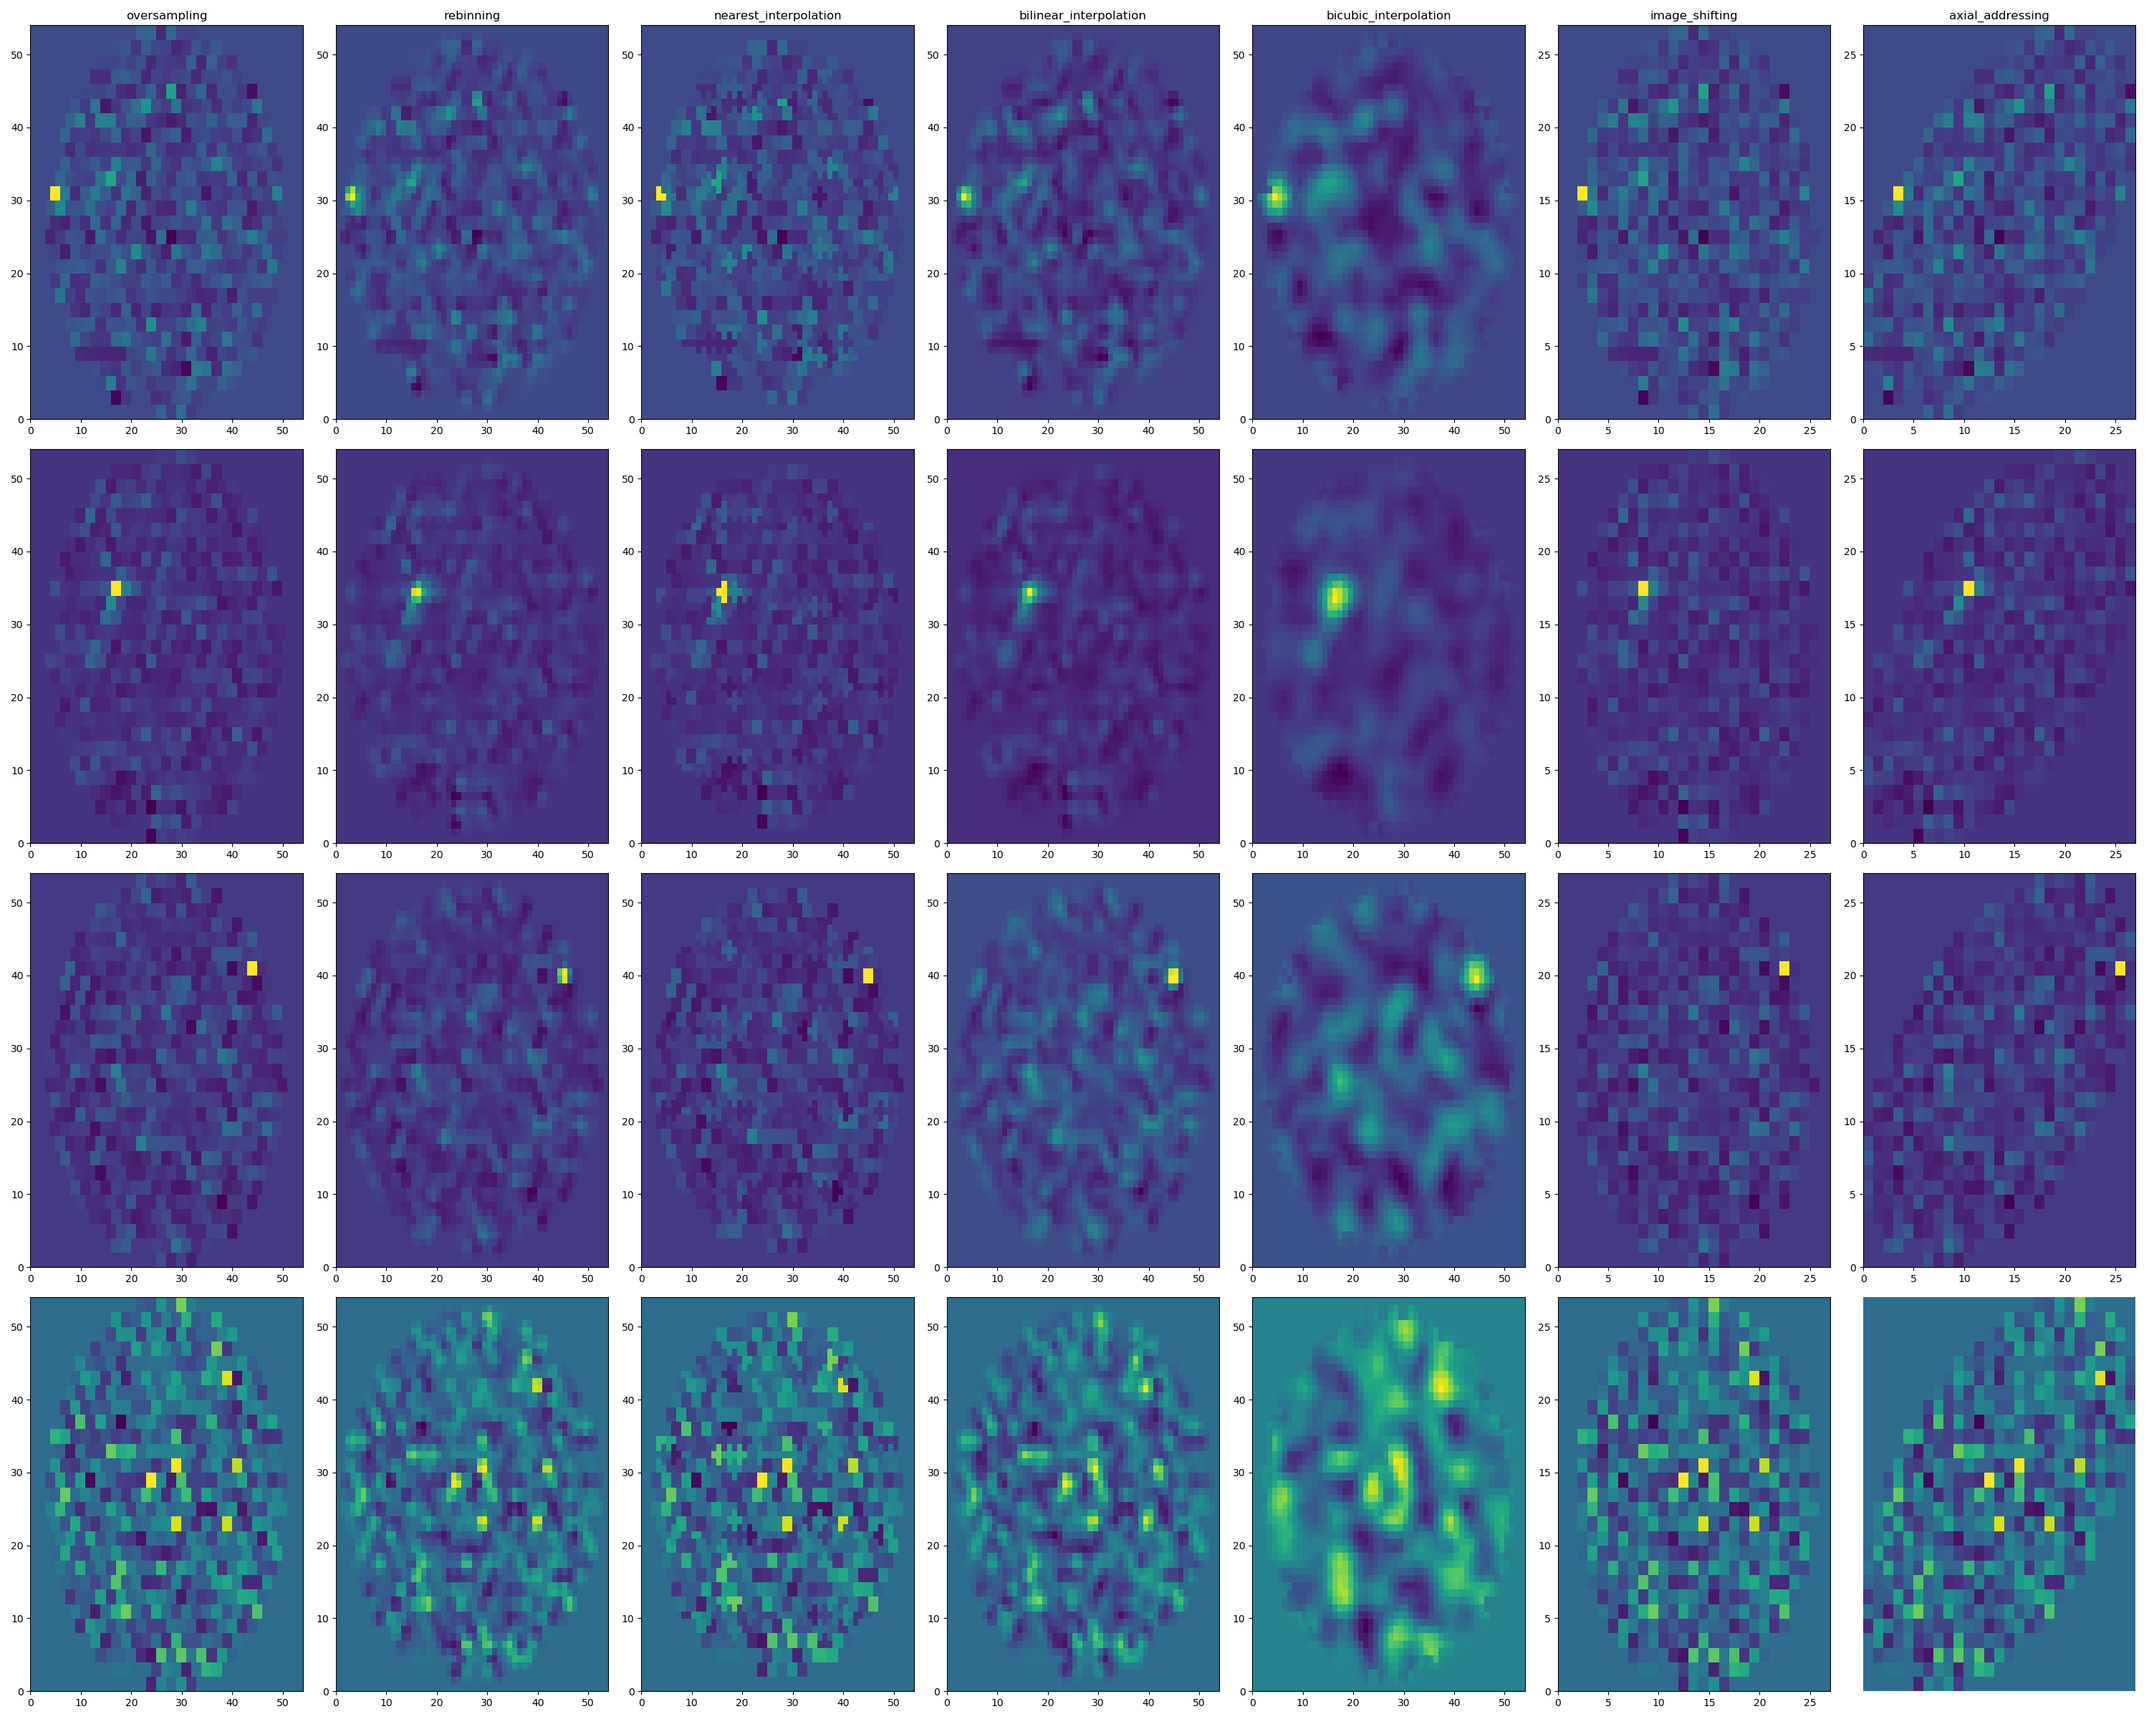
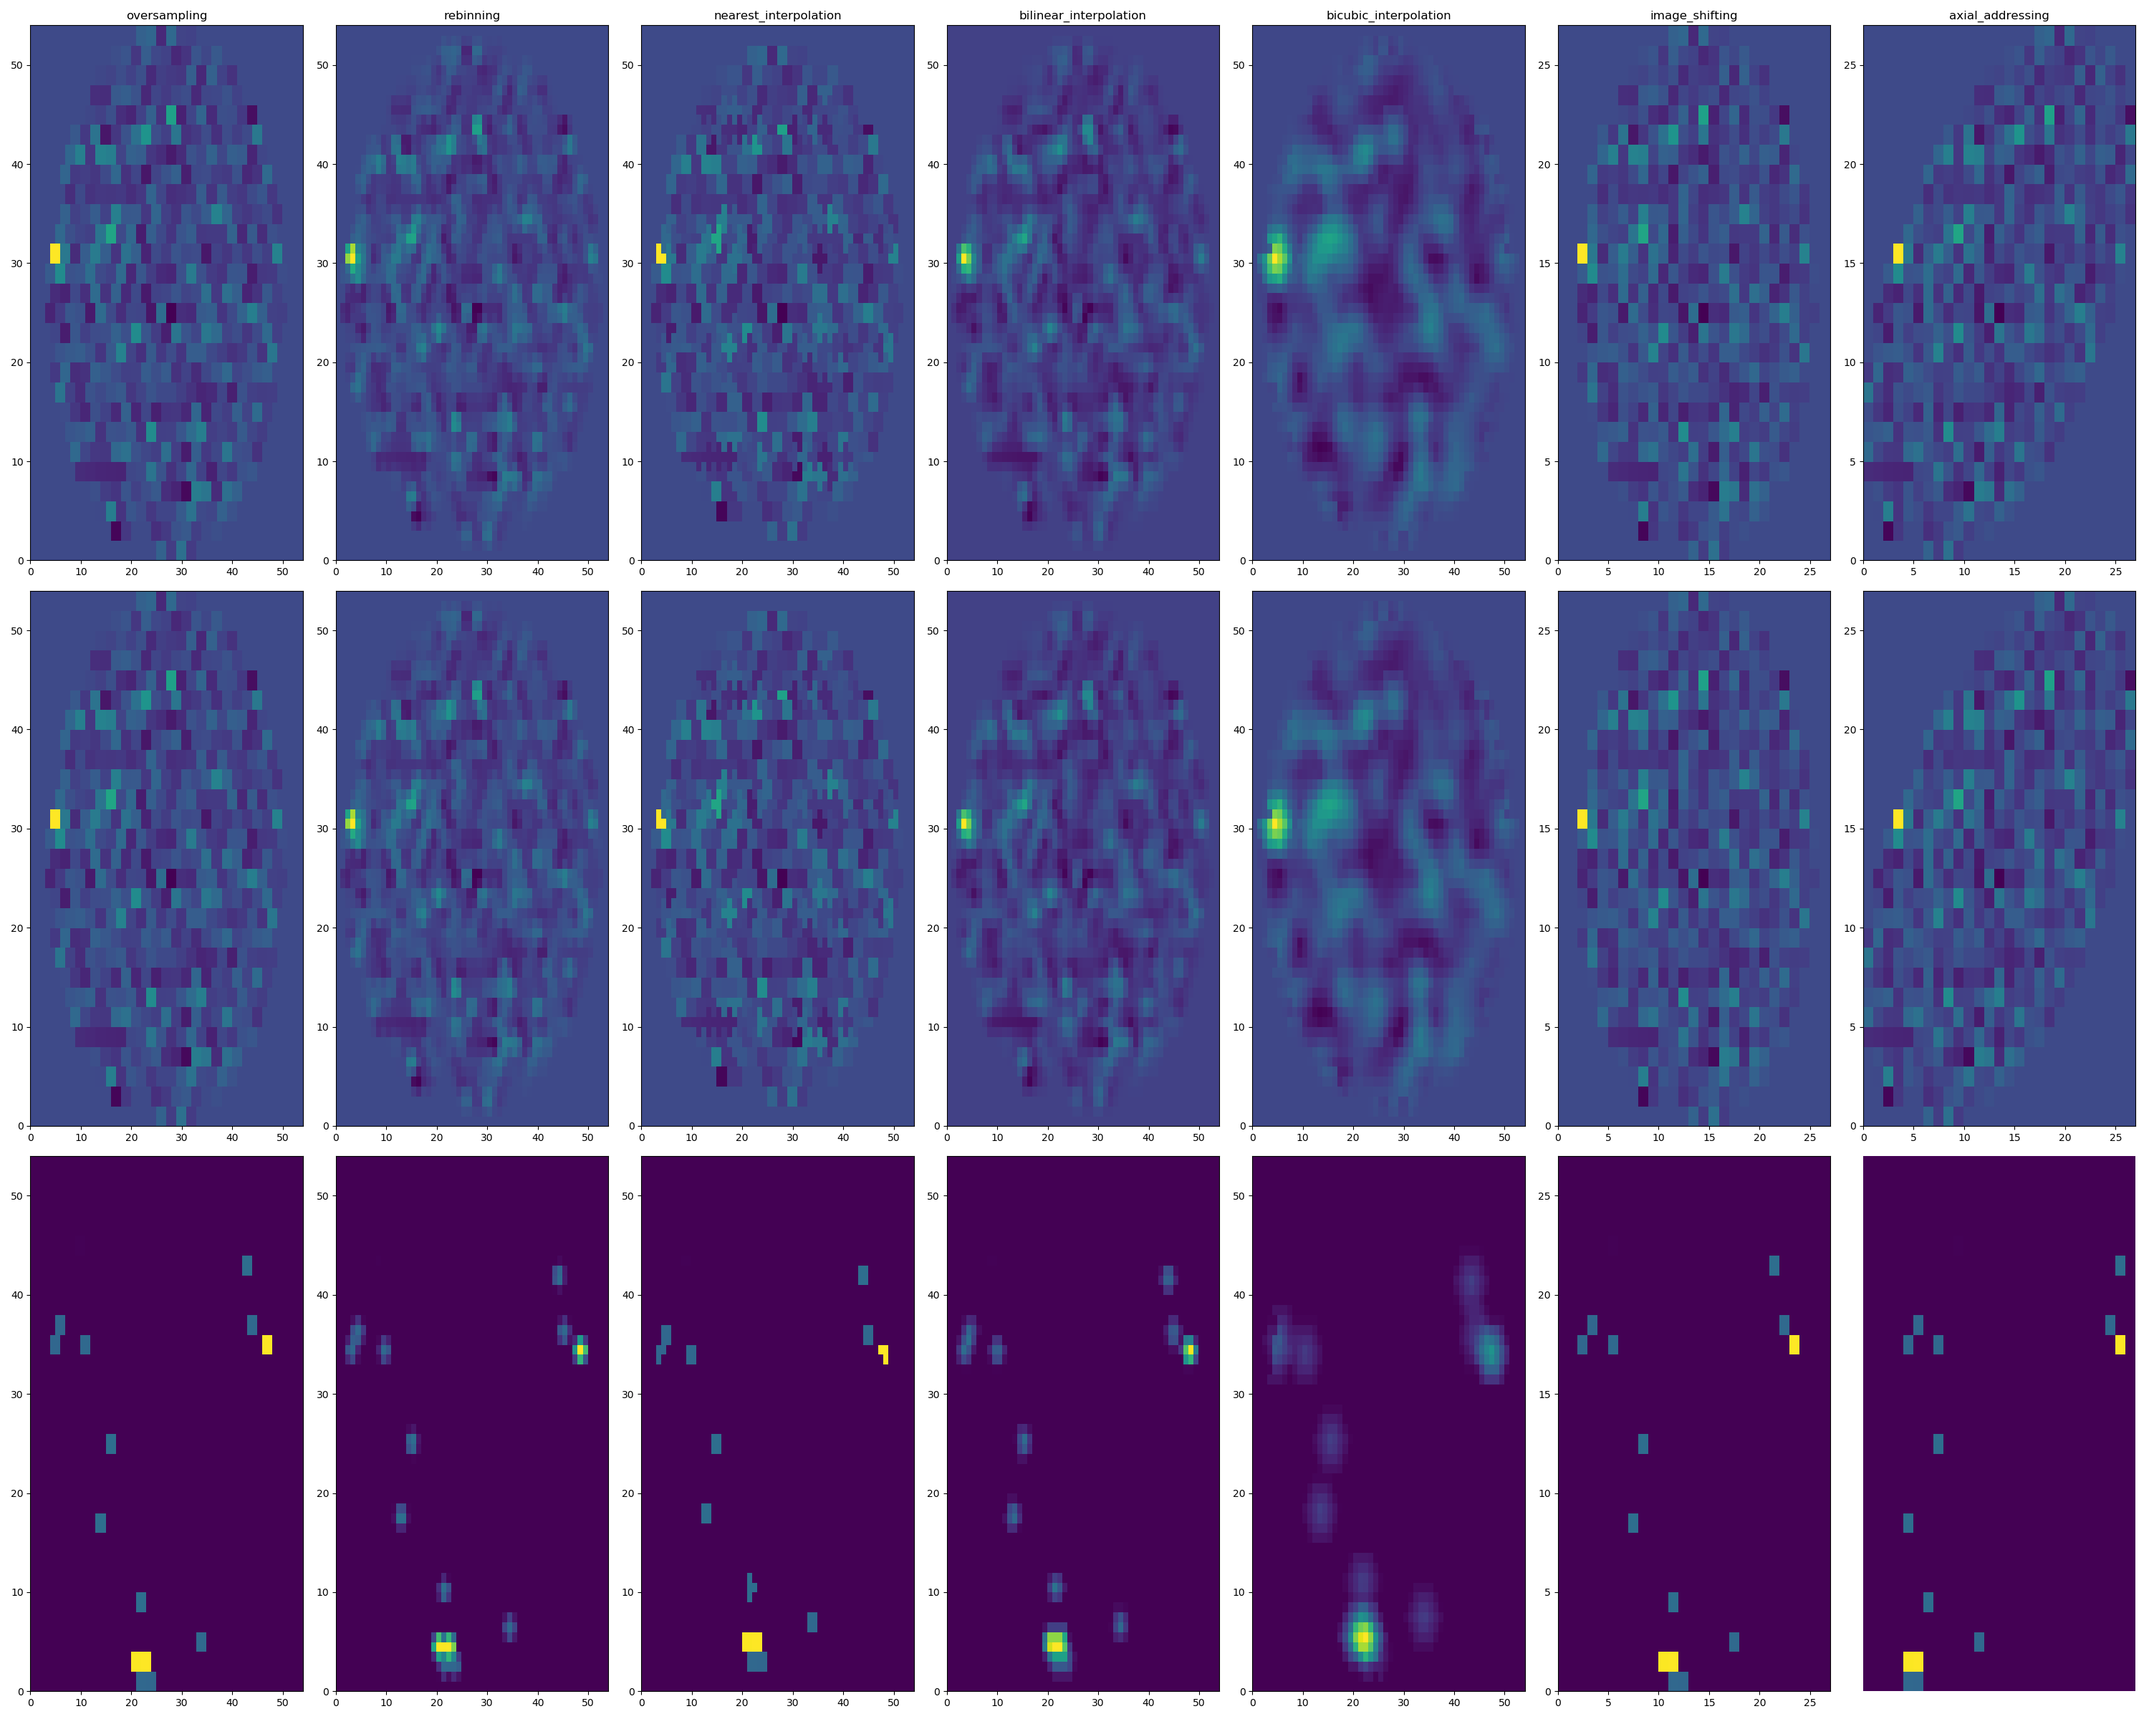
Written data dumper for real data

diff --git a/deadhandler.py b/deadhandler.py
@@ -1,0 +1,85 @@
+import ROOT
+import numpy as np
+from root_numpy import tree2array
+from ROOT import gSystem, TFile, TTreeReader
+from root_numpy import tree2array,root2array
+import root_numpy
+import matplotlib.pyplot as plt
+from image_mapping import ImageMapper
+
+ROOT.ROOT.EnableImplicitMT()
+
+if gSystem.Load("$EVNDISPSYS/lib/libVAnaSum.so"):
+    print("Problem loading EventDisplay libraries - please check this before proceeding")
+
+
+inputfile='/lustre/fs19/group/cta/users/sspencer/ver/aux/64080_dst.root'
+cam = 'VERITAS'
+
+f=ROOT.TFile.Open(inputfile,'read')
+
+mytree=f.Get("dst")
+
+nochannels=499
+notrigs=100
+
+imarr=tree2array(mytree,branches=['sum'],start=0,stop=notrigs)
+deadarr=tree2array(mytree,branches=['dead'],start=0,stop=notrigs)
+evarr=tree2array(mytree,branches=['eventNumber'],start=0,stop=notrigs)
+
+mappers = {}
+
+hex_methods = ['oversampling', 'rebinning', 'nearest_interpolation',
+               'bilinear_interpolation', 'bicubic_interpolation', 
+               'image_shifting', 'axial_addressing']
+
+hex_cams=['VERITAS']
+
+for method in hex_methods:
+    mapping_method = {cam: method for cam in hex_cams}
+    mappers[method] = ImageMapper(mapping_method=mapping_method)
+
+for i in np.arange(notrigs):
+    fig,axs=plt.subplots(4,7,figsize=(30,24))
+    axs=axs.ravel()
+    j=0
+    for method in hex_methods:
+        image=imarr[i][0][0][:499].copy()
+        image=np.expand_dims(image,1)
+        image = mappers[method].map_image(image, cam)
+        axs[j].pcolor(image[:,:,0], cmap='viridis')
+        axs[j].set_title(method)
+        axs[j].set_axis_off()
+        deadvals=deadarr[i][0][0][:499]
+        deadvals=np.expand_dims(deadvals,1)
+        deadlist=np.where(deadvals!=0)[0]
+        for k in deadlist:
+            try:
+                if imarr[i][0][0][k+1] !=0.0 and imarr[i][0][0][k-1] !=0.0:
+                    imarr[i][0][0][k]=(imarr[i][0][0][k+1]+imarr[i][0][0][k-1])/2.0
+                elif imarr[i][0][0][k+2] !=0.0 and imarr[i][0][0][k-2] !=0.0:
+                    imarr[i][0][0][k]=(imarr[i][0][0][k+2]+imarr[i][0][0][k-2])/2.0
+                elif imarr[i][0][0][k+3] !=0.0 and imarr[i][0][0][k-3] !=0.0:
+                    imarr[i][0][0][k]=(imarr[i][0][0][k+3]+imarr[i][0][0][k-3])/2.0
+                else:
+                    print('Dead pixel not corrected: '+str(k))
+                    continue
+            except IndexError:
+                print('Index error')
+                continue
+        im2=imarr[i][0][0][:499].copy()
+        im2=np.expand_dims(im2,1)
+        im2=mappers[method].map_image(im2,cam)
+        axs[j+7].pcolor(im2[:,:,0],cmap='viridis')
+        axs[j+7].set_axis_off()
+
+        deadvals=mappers[method].map_image(deadvals,cam)
+        axs[j+14].pcolor(deadvals[:,:,0],cmap='viridis')
+        axs[j+14].set_axis_off()
+        axs[j+21].pcolor((im2-image)[:,:,0],cmap='viridis')
+        axs[j+21].set_axis_off()
+
+        j=j+1
+    plt.tight_layout()
+    plt.show()
+
